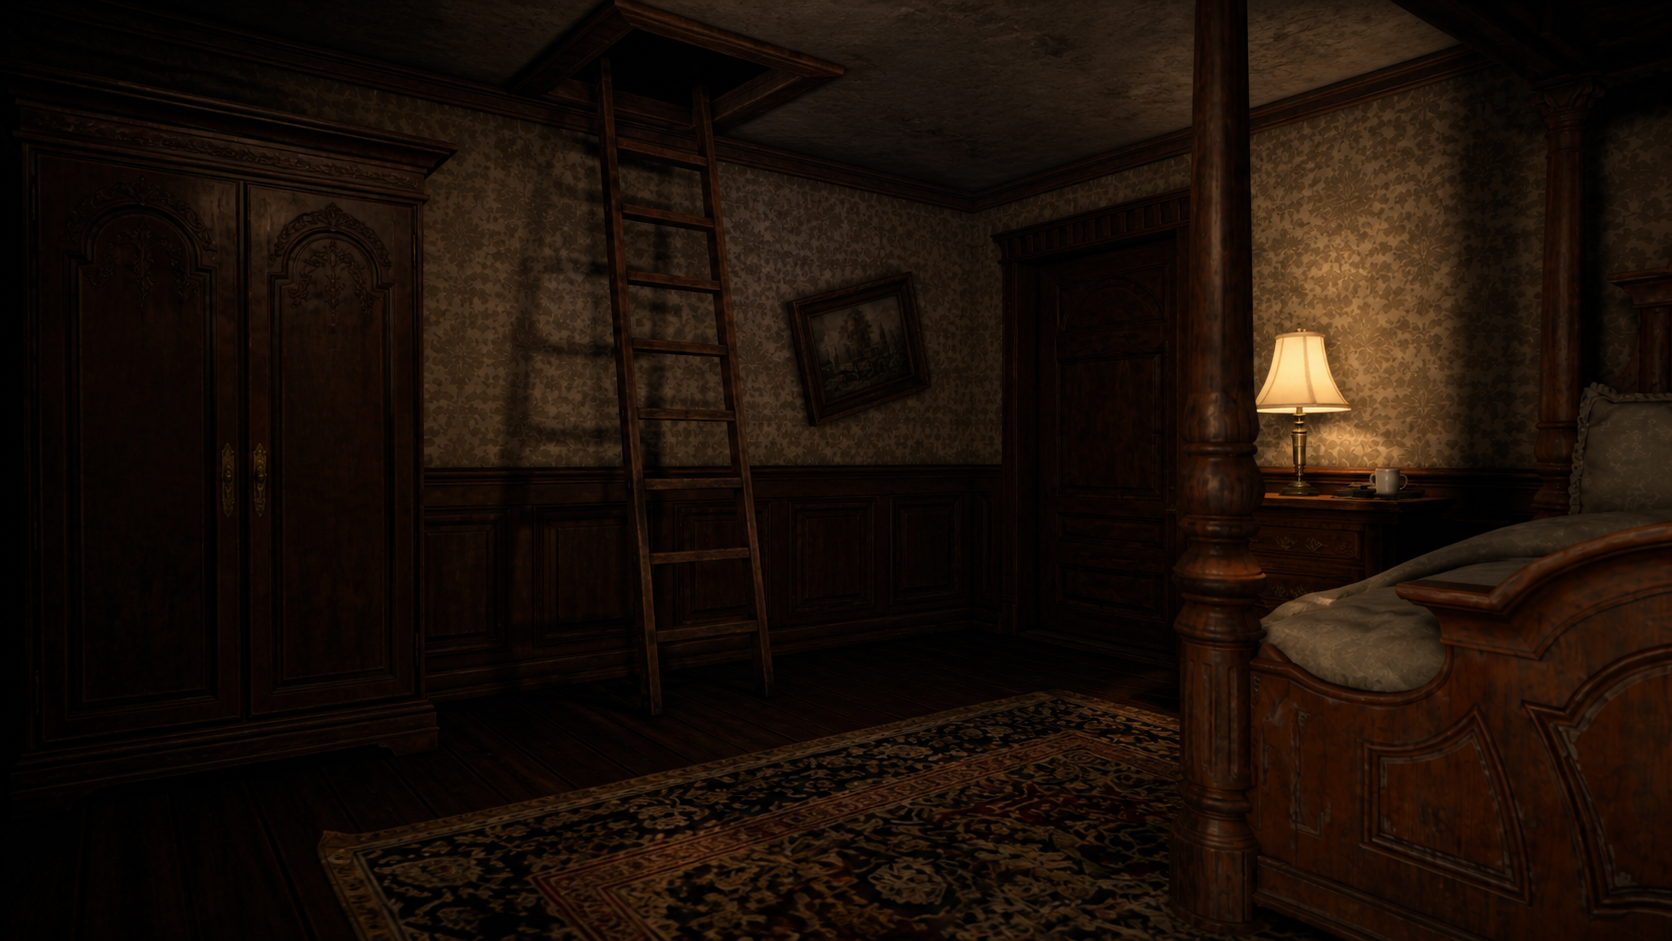
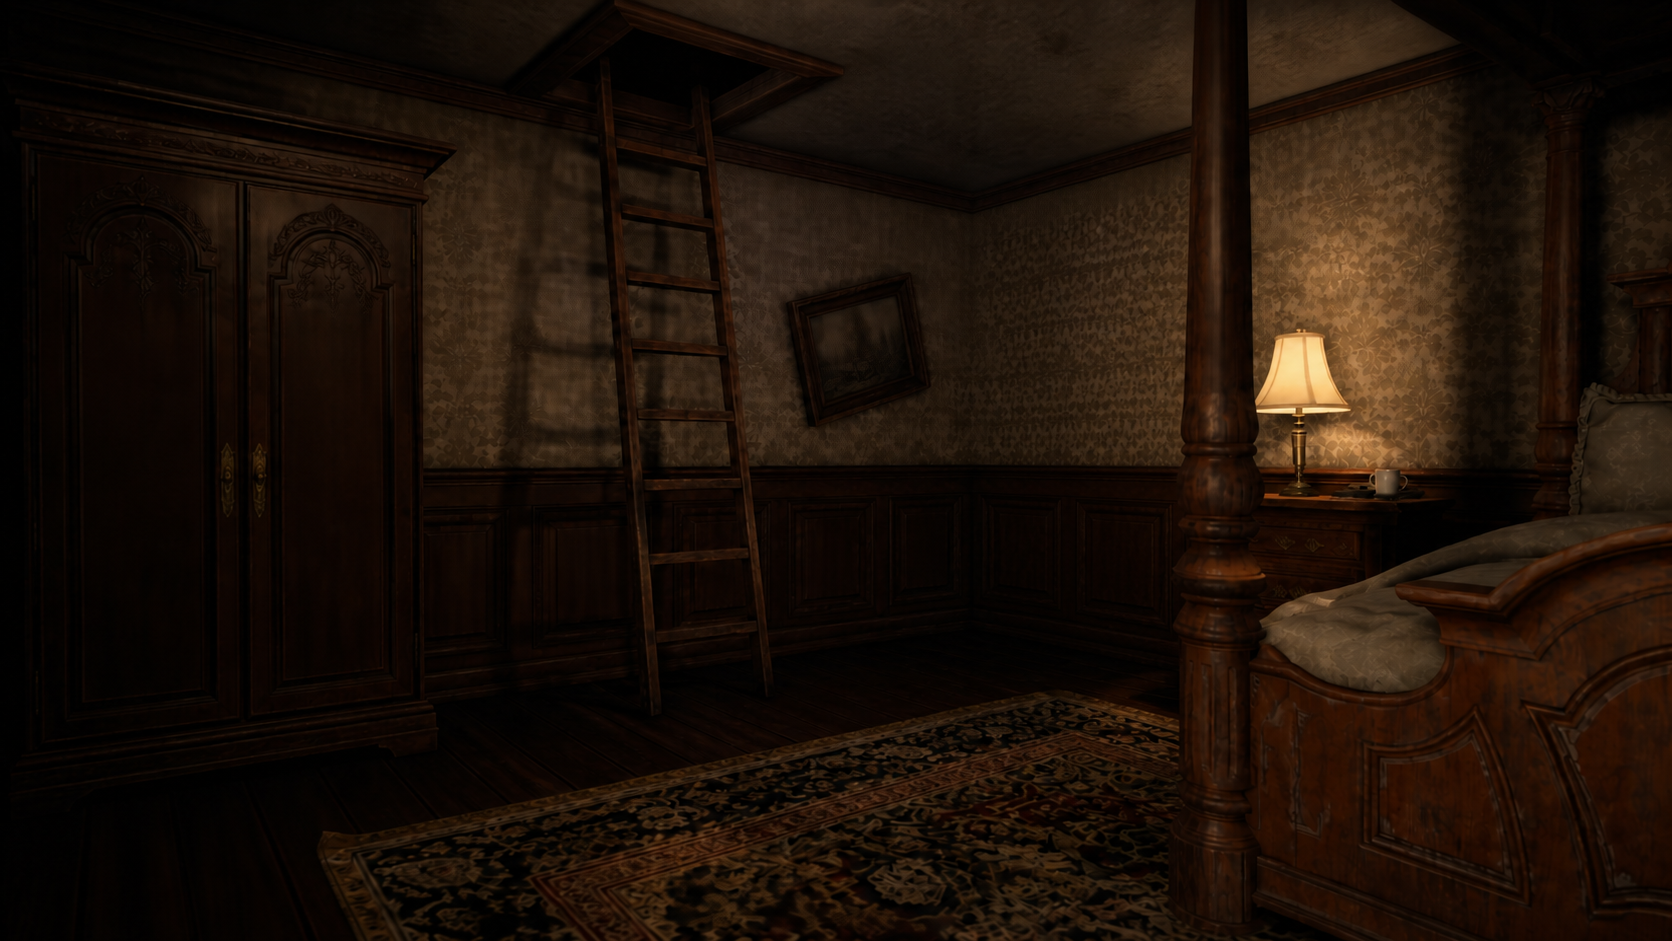
Remove door from ladder view

Changed region(s): [[0.5909, 0.1849, 0.7153, 0.4931], [0.7464, 0.4315, 0.8086, 0.4623], [0.6842, 0.7705, 0.7153, 0.8013]]

diff --git a/docs/index.html b/docs/index.html
@@ -30,7 +30,7 @@
     function closeInspect(){inspect.classList.remove('open');inspect.setAttribute('aria-hidden','true')}
     document.querySelector('#close').addEventListener('click',closeInspect);
     addEventListener('keydown',e=>{if(e.key==='Escape')closeInspect()});
-    class RoomScene extends Phaser.Scene{preload(){this.load.image('bedroom','assets/village-chief-bedroom.png');this.load.image('ladder','assets/village-chief-ladder.png');this.load.image('window','assets/village-chief-window.png?v=sunset')}create(){const views=[this.add.image(640,360,'window').setDisplaySize(1280,720).setAlpha(0),this.add.image(640,360,'ladder').setDisplaySize(1280,720).setAlpha(0),this.add.image(640,360,'bedroom').setDisplaySize(1280,720)];let current=2;const style={fontFamily:'Georgia',fontSize:'72px',color:'#ddd3bd',backgroundColor:'rgba(5,6,7,.42)',padding:{left:18,right:18,top:2,bottom:8}};const left=this.add.text(34,310,'‹',style).setDepth(5).setInteractive({useHandCursor:true}),right=this.add.text(1178,310,'›',style).setDepth(5);const dots=[0,1,2].map(i=>this.add.circle(616+i*24,680,4,0xd5c6a5,i===current ? .9 : .25).setDepth(5));const controls=()=>{current>0?left.setAlpha(1).setInteractive({useHandCursor:true}):left.setAlpha(0).disableInteractive();current<views.length-1?right.setAlpha(1).setInteractive({useHandCursor:true}):right.setAlpha(0).disableInteractive();dots.forEach((d,i)=>d.setAlpha(i===current ? .9 : .25))};const turn=direction=>{const next=Phaser.Math.Clamp(current+direction,0,views.length-1);if(next===current)return;const previous=views[current],incoming=views[next].setAlpha(0);current=next;controls();this.tweens.add({targets:previous,alpha:0,duration:330,ease:'Sine.easeInOut'});this.tweens.add({targets:incoming,alpha:1,duration:330,ease:'Sine.easeInOut'})};left.on('pointerdown',()=>turn(-1));right.on('pointerdown',()=>turn(1));this.input.keyboard.on('keydown-LEFT',()=>turn(-1));this.input.keyboard.on('keydown-RIGHT',()=>turn(1));controls()}}
+    class RoomScene extends Phaser.Scene{preload(){this.load.image('bedroom','assets/village-chief-bedroom.png');this.load.image('ladder','assets/village-chief-ladder.png?v=clean-wall');this.load.image('window','assets/village-chief-window.png?v=sunset')}create(){const views=[this.add.image(640,360,'window').setDisplaySize(1280,720).setAlpha(0),this.add.image(640,360,'ladder').setDisplaySize(1280,720).setAlpha(0),this.add.image(640,360,'bedroom').setDisplaySize(1280,720)];let current=2;const style={fontFamily:'Georgia',fontSize:'72px',color:'#ddd3bd',backgroundColor:'rgba(5,6,7,.42)',padding:{left:18,right:18,top:2,bottom:8}};const left=this.add.text(34,310,'‹',style).setDepth(5).setInteractive({useHandCursor:true}),right=this.add.text(1178,310,'›',style).setDepth(5);const dots=[0,1,2].map(i=>this.add.circle(616+i*24,680,4,0xd5c6a5,i===current ? .9 : .25).setDepth(5));const controls=()=>{current>0?left.setAlpha(1).setInteractive({useHandCursor:true}):left.setAlpha(0).disableInteractive();current<views.length-1?right.setAlpha(1).setInteractive({useHandCursor:true}):right.setAlpha(0).disableInteractive();dots.forEach((d,i)=>d.setAlpha(i===current ? .9 : .25))};const turn=direction=>{const next=Phaser.Math.Clamp(current+direction,0,views.length-1);if(next===current)return;const previous=views[current],incoming=views[next].setAlpha(0);current=next;controls();this.tweens.add({targets:previous,alpha:0,duration:330,ease:'Sine.easeInOut'});this.tweens.add({targets:incoming,alpha:1,duration:330,ease:'Sine.easeInOut'})};left.on('pointerdown',()=>turn(-1));right.on('pointerdown',()=>turn(1));this.input.keyboard.on('keydown-LEFT',()=>turn(-1));this.input.keyboard.on('keydown-RIGHT',()=>turn(1));controls()}}
     new Phaser.Game({type:Phaser.AUTO,parent:'game',width:1280,height:720,backgroundColor:'#090a0c',scene:RoomScene,scale:{mode:Phaser.Scale.FIT,autoCenter:Phaser.Scale.CENTER_BOTH}});
   </script>
 </body>

diff --git a/app/page.tsx b/app/page.tsx
@@ -36,7 +36,7 @@ export default function Home() {
       class RoomScene extends Phaser.Scene {
         preload() {
           this.load.image("village-chief-bedroom", "/rooms/village-chief-bedroom.png");
-          this.load.image("village-chief-ladder", "/rooms/village-chief-ladder.png");
+          this.load.image("village-chief-ladder", "/rooms/village-chief-ladder.png?v=clean-wall");
           this.load.image("village-chief-window", "/rooms/village-chief-window.png?v=sunset");
         }
         create() {
